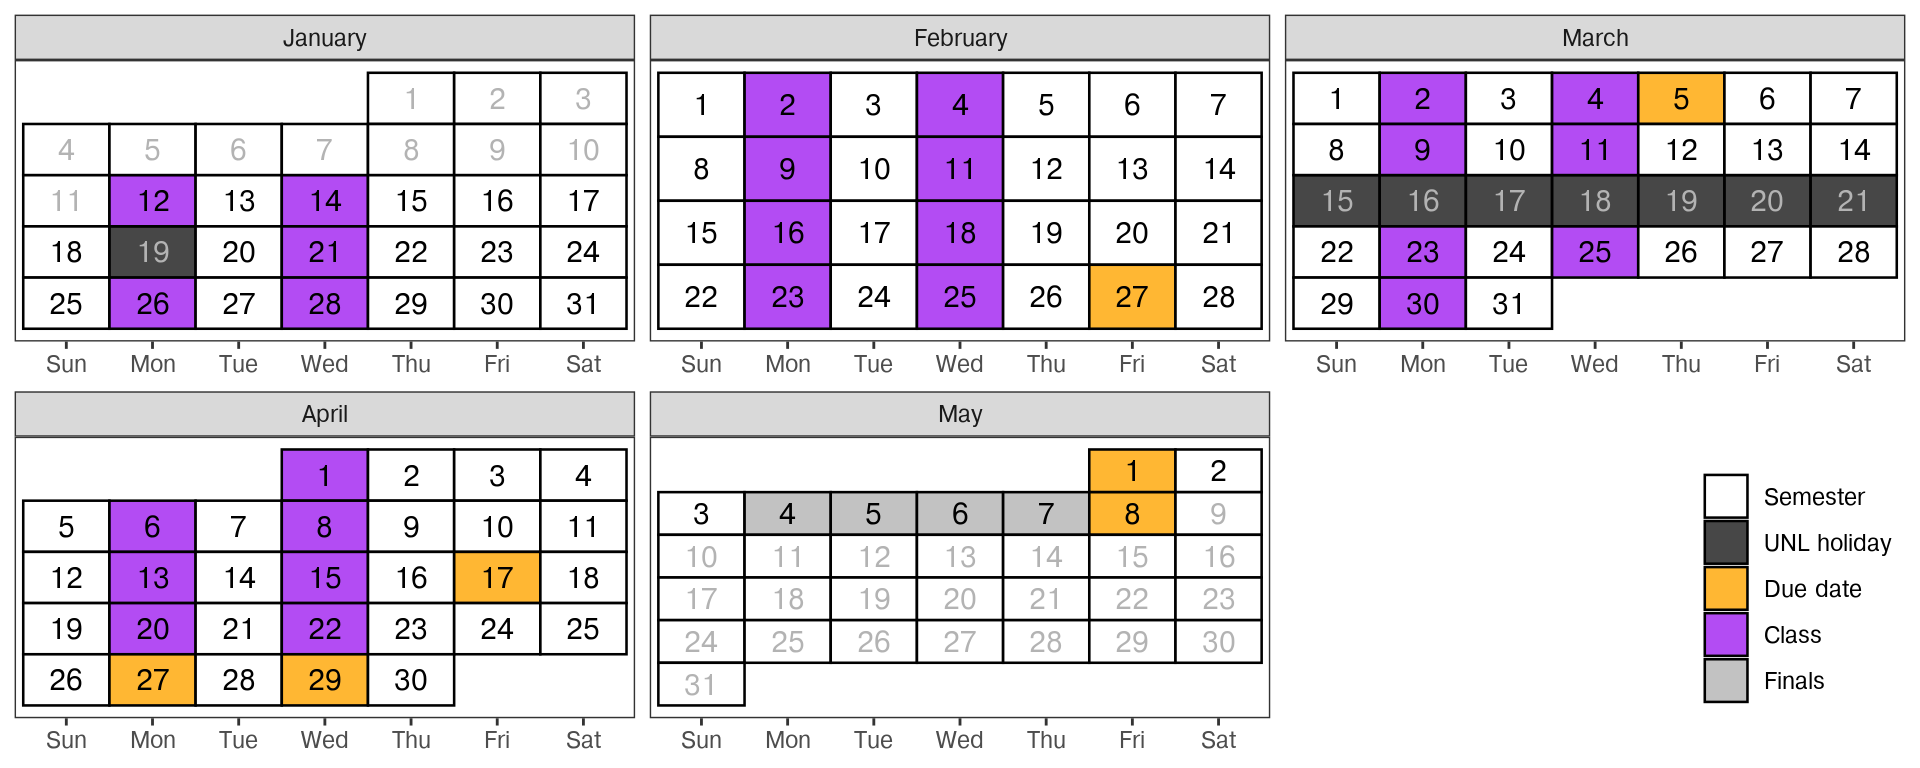
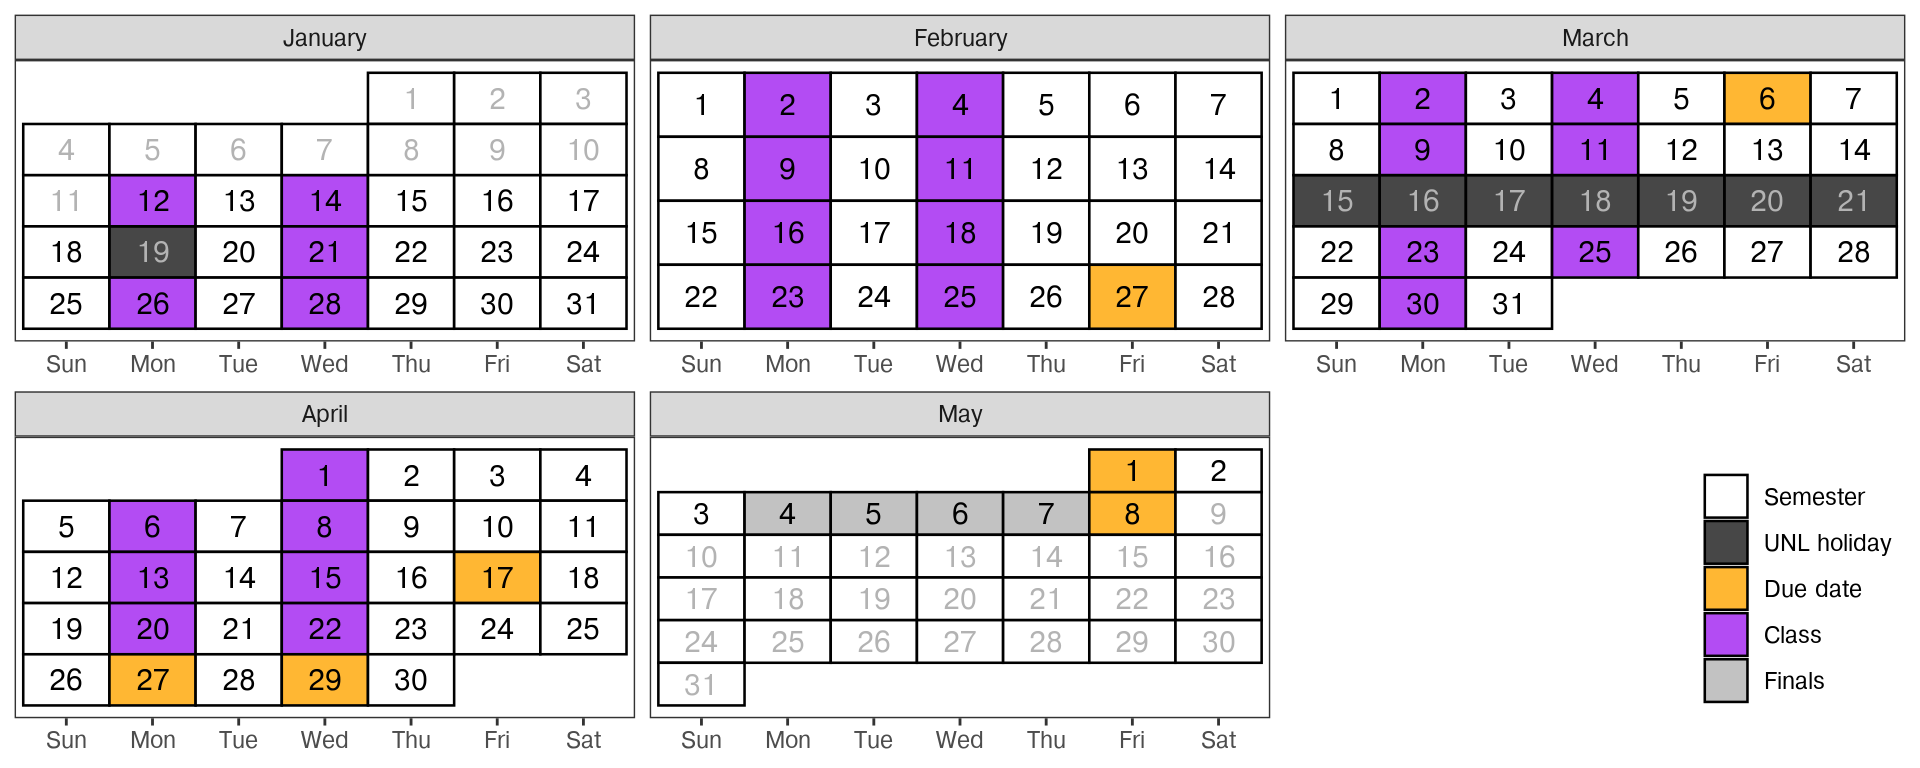
Update calendly link

Changed region(s): [[0.8438, 0.0938, 0.9688, 0.1875]]

diff --git a/docs/syllabus.html b/docs/syllabus.html
@@ -517,7 +517,7 @@ window.Quarto = {
  
 <dt>E-mail</dt><dd><a href="mailto:svanderplas2@nebraska.edu">svanderplas2@nebraska.edu</a></dd> 
 <dt>Office</dt><dd>Hardin 343D</dd>
-<dt>Office Hours</dt><dd><p>By appointment. Schedule at <a href="https://calendly.com/drvanderplas/officehours">https://calendly.com/drvanderplas/officehours</a></p></dd>
+<dt>Office Hours</dt><dd><p>By appointment. Schedule at <a href="https://calendly.com/vanderplas-stats/30min">https://calendly.com/vanderplas-stats/30min</a></p></dd>
 </dl>
 <dl>
 <dt>Time</dt><dd>MW 10:00 - 11:15</dd>
@@ -619,7 +619,7 @@ window.Quarto = {
 <td style="text-align: right;">8</td>
 <td style="text-align: left;">03-02</td>
 <td style="text-align: left;">Charts, Tables, and Diagrams</td>
-<td style="text-align: left;">User Guide (03-05)</td>
+<td style="text-align: left;">User Guide (03-06)</td>
 </tr>
 <tr class="odd">
 <td style="text-align: right;">9</td>
@@ -816,7 +816,7 @@ window.Quarto = {
 <p>The university requires me to hold class through the entire semester, which means that you are required to participate in class for the entire semester. Any non-university-excused travel you choose to do that results in missing class can, and probably will, affect your grade. This includes the final exam period - travel is not an excuse for failure to attend the final exam, if activities are planned for that period.</p>
 <section id="sec-illness" class="level3" data-number="4.3.1">
 <h3 data-number="4.3.1" class="anchored" data-anchor-id="sec-illness"><span class="header-section-number">4.3.1</span> Illness</h3>
-<p>If you are feeling ill, please <strong>do not come to class</strong>. Instead, review the material and work on the homework assignment, and then schedule an appointment with me to meet virtually. In the appointment reason field on <a href="https://calendly.com/drvanderplas/officehours">Calendly</a>, indicate that this appointment is to substitute for your in-class participation on the date you missed.</p>
+<p>If you are feeling ill, please <strong>do not come to class</strong>. Instead, review the material and work on the homework assignment, and then schedule an appointment with me to meet virtually. In the appointment reason field on <a href="https://calendly.com/vanderplas-stats/30min">Calendly</a>, indicate that this appointment is to substitute for your in-class participation on the date you missed.</p>
 <p>If you need to miss more than 1-2 classes for illness, I reserve the right to require documentation from Disability Services or a medical provider in order to continue using this substitute for attendance grades.</p>
 </section>
 <section id="inclement-weather" class="level3" data-number="4.3.2">

diff --git a/docs/course-support.html b/docs/course-support.html
@@ -470,7 +470,7 @@ ul.task-list li input[type="checkbox"] {
 </section>
 <section id="office-hours" class="level2">
 <h2 class="anchored" data-anchor-id="office-hours">Office hours</h2>
-<p>Office hours are available by appointment at <a href="https://calendly.com/vanderplas/office-hours">this link</a>. In general, office hours will be via Zoom - this allows me to offer more availability, and doesn’t require you to come to East campus to visit my office.</p>
+<p>Office hours are available by appointment at <a href="https://calendly.com/vanderplas-stats/30min">this link</a>. In general, office hours will be via Zoom - this allows me to offer more availability, and doesn’t require you to come to East campus to visit my office.</p>
 <p>If you’d prefer to meet in person, try to schedule your appointment on Monday or Wednesday, and mention in the request that you want an in-person meeting. I will let you know if that’s feasible given my schedule for the day.</p>
 </section>
 <section id="email" class="level2">
